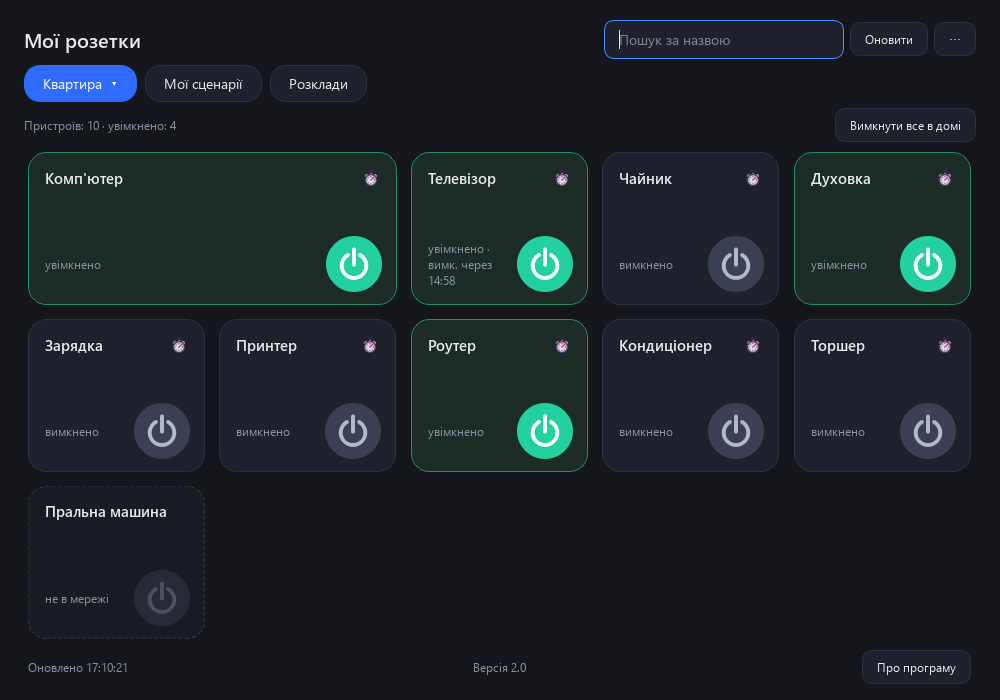
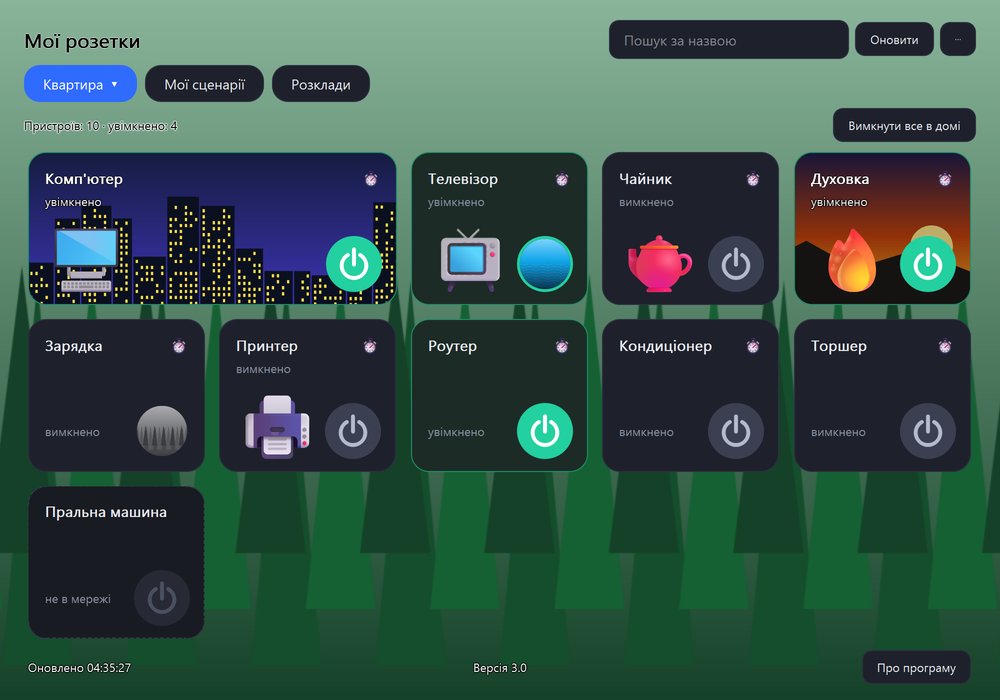
Сайт: Smart Life для Windows 3.0

diff --git a/docs/smart-life.html b/docs/smart-life.html
@@ -99,6 +99,7 @@ button#copy{background:var(--accent);color:var(--accent-ink);border:0;border-rad
     <h2 data-i="s_h"></h2>
     <div class="shots">
       <figure><img id="img_main" src="sl_main_en.png" alt="" width="1000" height="700"></figure>
+      <figure><img id="img_icons" src="sl_icons_en.png" alt="" width="1000" height="700"></figure>
       <figure><img id="img_device" src="sl_device_en.png" alt="" width="440" height="640"></figure>
       <figure><img id="img_scenes" src="sl_scenes_en.png" alt="" width="1000" height="700"></figure>
       <figure><img id="img_sched" src="sl_sched_en.png" alt="" width="1000" height="700"></figure>
@@ -129,7 +130,7 @@ button#copy{background:var(--accent);color:var(--accent-ink);border:0;border-rad
   </div>
 </footer>
 <script>
-var I18N = {"en": {"name": "Smart Life for Windows", "title": "Smart Life for Windows: control Smart Life (Tuya) sockets from a Windows window (free)", "h1": "Your Smart Life sockets in a Windows window", "lead": "Turn sockets on and off from your PC: sign in with a QR code (no password), tiles with a power button, several homes, timers, your own scenes and schedules. Free.", "dl": "Download for Windows", "gh": "View on GitHub", "back": "All programs", "dlnote": "Current version: 2.0. SmartLifeForWindows-2.0.exe. Free. Windows 10 and 11. Interface in English, Ukrainian and Russian.", "f_h": "What it does", "s_h": "How it looks", "st_h": "Getting started", "lm_h": "Limitations", "d_h": "Support the project", "d_p": "The program is free. If it is useful to you, you can support its development by card, Google Pay or USDT: the same donation page as for the other program on this site.", "d_btn": "Donation options", "c1": "Smart Life (Tuya) sockets from a window of your PC. The program is independent and not an official Tuya or Smart Life product.", "feats": [["QR sign-in", "No password: scan a QR code with the Smart Life app. The code is remembered."], ["Tiles with a power button", "Like in the phone app; wide tiles, drag to reorder, several homes, a separate window for each home."], ["Device window", "Click a tile: electricity (power, voltage, current, energy), socket timer, child lock, indicator light."], ["Timers", "Turn off in 15 minutes, 1 hour and so on, with a countdown on the tile."], ["Own scenes and schedules", "Several sockets in one click, or at a set time on chosen days."], ["Smart Life scenes", "Tap-to-run scenes from your phone app are shown and can be started."], ["Theme and language", "Auto (like Windows), light or dark theme; English, Ukrainian and Russian, by your Windows language or chosen by hand."], ["Important sockets", "Turning off a PC or router asks for confirmation."], ["Tray icon by the clock", "Favourite sockets, all sockets, “Turn everything off” and your scenes right from the tray menu; the program can start with Windows and stay in the tray."], ["Multi-channel sockets", "A socket or power strip with several channels (230 V and USB, sockets 1, 2, 3) shows a button per channel on the tile and in the device window."], ["Device codes and energy", "A table that assigns power, voltage, current and energy for any device; consumption for a day, 7 and 30 days, cost and power protection."], ["Shortcuts and notifications", "Desktop shortcuts for sockets and scenes with a result message; Windows notifications."], ["Server agent", "Schedules, scenes and power protection keep working while the computer is off: on any server or mini computer."]], "steps": ["Download SmartLifeForWindows-2.0.exe and run it. The installer speaks your Windows language.", "On first start enter your user code (in the phone app: Me, gear icon, Account and Security, User code).", "Scan the QR code shown by the program: in Smart Life tap the scanner icon in the top corner.", "Choose your home with the button at the top and click the round button on a tile."], "lims": ["Own schedules and scenes work only while the program is running and the PC is awake. For round-the-clock work use the server agent (the Server folder) or automations inside Smart Life.", "Smart Life automations (by schedule or condition) are not given to third-party programs by Tuya: they are not shown here and keep working in the phone app.", "The order of cards in the phone app (for example Favorites) is stored inside that app and is not available: drag tiles to set your order.", "Sign-in by e-mail and password does not work for all accounts: use the QR code."], "smart": "The installer is not signed with a publisher certificate yet, so Windows may show a SmartScreen warning (\"unknown publisher\"): click \"More info\" and then \"Run anyway\" if you downloaded the file from here. The SHA-256 checksum is in the description of the release.", "note": "Smart Life for Windows is an independent project. Not affiliated with Tuya or Smart Life. Tuya and Smart Life are trademarks of their owners.", "f_rel": "All versions", "f_issue": "Report a problem", "f_src": "Source on GitHub", "f_contacts": "Contacts", "f_terms": "Terms and conditions", "f_refund": "Refund policy", "f_oferta": "Public offer", "star_btn": "⭐ Star on GitHub", "star_p": "A free way to help: put a star on the GitHub repository. It costs nothing and helps other people find the program."}, "uk": {"name": "Smart Life для Windows", "title": "Smart Life для Windows: керуйте розетками Smart Life (Tuya) з вікна Windows (безкоштовно)", "h1": "Ваші розетки Smart Life у вікні Windows", "lead": "Вмикайте й вимикайте розетки з комп’ютера: вхід за QR-кодом (без пароля), плитки з кнопкою живлення, кілька домів, таймери, власні сценарії та розклади. Безкоштовно.", "dl": "Завантажити для Windows", "gh": "Дивитися на GitHub", "back": "Усі програми", "dlnote": "Поточна версія: 2.0. SmartLifeForWindows-2.0.exe. Безкоштовно. Windows 10 і 11. Інтерфейс українською, російською та англійською.", "f_h": "Що вміє", "s_h": "Як виглядає", "st_h": "З чого почати", "lm_h": "Обмеження", "d_h": "Підтримати проєкт", "d_p": "Програма безкоштовна. Якщо вона вам корисна, можна підтримати розробку карткою, Google Pay або USDT: це та сама сторінка внесків, що й для іншої програми на цьому сайті.", "d_btn": "Способи підтримки", "c1": "Розетки Smart Life (Tuya) з вікна комп’ютера. Програма незалежна й не є офіційним продуктом Tuya чи Smart Life.", "feats": [["Вхід за QR", "Без пароля: скануйте QR-код застосунком Smart Life. Код запам’ятовується."], ["Плитки з кнопкою живлення", "Як у застосунку на телефоні; широкі плитки, перетягування, кілька домів, окреме вікно для кожного дому."], ["Вікно пристрою", "Клік по плитці: електрика (потужність, напруга, струм, енергія), таймер розетки, захист від дітей, підсвітка індикатора."], ["Таймери", "Вимкнути через 15 хвилин, 1 годину тощо, зі зворотним відліком на плитці."], ["Власні сценарії та розклади", "Кілька розеток одним кліком або в заданий час у вибрані дні."], ["Сценарії Smart Life", "Сценарії «натиснув і виконалося» з телефона видно й можна запускати."], ["Тема й мова", "Тема авто (як у Windows), світла або темна; українська, російська й англійська — за мовою Windows або вручну."], ["Важливі розетки", "Вимкнення ПК чи роутера запитує підтвердження."], ["Значок біля годинника (трей)", "Обрані розетки, усі розетки, «Вимкнути все» і власні сценарії прямо з меню біля годинника; програма може запускатися разом з Windows і жити в треї."], ["Складені розетки", "Розетка або подовжувач із кількома каналами (230 В і USB, розетки 1, 2, 3) мають кнопку на кожен канал на плитці та у вікні пристрою."], ["Коди пристрою та енергія", "Таблиця призначення потужності, напруги, струму й енергії для будь-яких пристроїв; витрата за день, 7 і 30 днів, вартість і захист за потужністю."], ["Ярлики та сповіщення", "Ярлики на робочий стіл для розеток і сценаріїв із повідомленням про результат; сповіщення Windows."], ["Серверний агент", "Розклади, сценарії та захист за потужністю працюють при вимкненому комп’ютері: на будь-якому сервері чи міні-комп’ютері."]], "steps": ["Завантажте SmartLifeForWindows-2.0.exe й запустіть. Встановлювач говорить мовою Windows.", "Під час першого запуску введіть код користувача (у застосунку: Я, значок шестірні, Обліковий запис і безпека, Код користувача).", "Скануйте QR-код, який показує програма: у Smart Life натисніть значок сканера у верхньому куті.", "Оберіть дім кнопкою вгорі та натискайте круглу кнопку на плитці."], "lims": ["Власні розклади й сценарії працюють, лише поки програма запущена й комп’ютер не спить. Для цілодобової роботи користуйтеся серверним агентом (тека «Сервер») або автоматизаціями в самому Smart Life.", "Автоматизації Smart Life (за розкладом чи умовою) Tuya не віддає стороннім програмам: тут їх не видно, а в застосунку вони працюють як раніше.", "Порядок карток у застосунку (наприклад «Обране») зберігається всередині нього й недоступний: порядок плиток задається перетягуванням.", "Вхід за поштою й паролем працює не для всіх акаунтів: користуйтеся QR-кодом."], "smart": "Встановлювач ще не підписано сертифікатом видавця, тому Windows може показати попередження SmartScreen («невідомий видавець»): натисніть «Докладніше», потім «Все одно виконати», якщо ви завантажили файл звідси. Контрольну суму SHA-256 вказано в описі релізу.", "note": "Smart Life для Windows: незалежний проєкт. Не пов’язаний з Tuya чи Smart Life. Tuya і Smart Life є торговельними марками своїх власників.", "f_rel": "Усі версії", "f_issue": "Повідомити про проблему", "f_src": "Код на GitHub", "f_contacts": "Контакти", "f_terms": "Правила та умови", "f_refund": "Правила повернення коштів", "f_oferta": "Публічний договір", "star_btn": "⭐ Зірка на GitHub", "star_p": "Безкоштовний спосіб допомогти: поставте зірку репозиторію на GitHub. Це нічого не коштує й допомагає іншим знайти програму."}, "ru": {"name": "Smart Life для Windows", "title": "Smart Life для Windows: управляйте розетками Smart Life (Tuya) из окна Windows (бесплатно)", "h1": "Ваши розетки Smart Life в окне Windows", "lead": "Включайте и выключайте розетки с компьютера: вход по QR-коду (без пароля), плитки с кнопкой питания, несколько домов, таймеры, свои сценарии и расписания. Бесплатно.", "dl": "Скачать для Windows", "gh": "Смотреть на GitHub", "back": "Все программы", "dlnote": "Текущая версия: 2.0. SmartLifeForWindows-2.0.exe. Бесплатно. Windows 10 и 11. Интерфейс на русском, украинском и английском.", "f_h": "Что умеет", "s_h": "Как выглядит", "st_h": "С чего начать", "lm_h": "Ограничения", "d_h": "Поддержать проект", "d_p": "Программа бесплатная. Если она вам полезна, можно поддержать разработку картой, Google Pay или USDT: это та же страница взносов, что и для другой программы на этом сайте.", "d_btn": "Способы поддержки", "c1": "Розетки Smart Life (Tuya) из окна компьютера. Программа независимая и не является официальным продуктом Tuya или Smart Life.", "feats": [["Вход по QR", "Без пароля: отсканируйте QR-код приложением Smart Life. Код запоминается."], ["Плитки с кнопкой питания", "Как в приложении на телефоне; широкие плитки, перетаскивание, несколько домов, отдельное окно для каждого дома."], ["Окно устройства", "Клик по плитке: электричество (мощность, напряжение, ток, энергия), таймер розетки, защита от детей, подсветка индикатора."], ["Таймеры", "Выключить через 15 минут, 1 час и так далее, с обратным отсчётом на плитке."], ["Свои сценарии и расписания", "Несколько розеток одним кликом или в заданное время в выбранные дни."], ["Сценарии Smart Life", "Сценарии «нажал и выполнилось» из телефона видны и запускаются."], ["Тема и язык", "Тема авто (как в Windows), светлая или тёмная; русский, украинский и английский — по языку Windows или вручную."], ["Важные розетки", "Выключение ПК или роутера спрашивает подтверждение."], ["Значок у часов (трей)", "Избранные розетки, все розетки, «Выключить всё» и свои сценарии прямо из меню у часов; программа может запускаться вместе с Windows и жить в трее."], ["Составные розетки", "Розетка или удлинитель с несколькими каналами (230 В и USB, розетки 1, 2, 3): кнопка на каждый канал на плитке и в окне устройства."], ["Коды устройства и энергия", "Таблица назначения мощности, напряжения, тока и энергии для любых устройств; расход за день, 7 и 30 дней, стоимость и защита по мощности."], ["Ярлыки и уведомления", "Ярлыки на рабочий стол для розеток и сценариев с сообщением о результате; уведомления Windows."], ["Серверный агент", "Расписания, сценарии и защита по мощности работают при выключенном компьютере: на любом сервере или мини-компьютере."]], "steps": ["Скачайте SmartLifeForWindows-2.0.exe и запустите. Установщик говорит на языке Windows.", "При первом запуске введите код пользователя (в приложении: Я, значок шестерёнки, Учётная запись и безопасность, Код пользователя).", "Отсканируйте QR-код, который показывает программа: в Smart Life нажмите значок сканера в верхнем углу.", "Выберите дом кнопкой вверху и нажимайте круглую кнопку на плитке."], "lims": ["Свои расписания и сценарии работают, только пока программа запущена и компьютер не спит. Для круглосуточной работы используйте серверный агент (папка «Сервер») или автоматизации в самом Smart Life.", "Автоматизации Smart Life (по расписанию или условию) Tuya не отдаёт сторонним программам: здесь их не видно, а в приложении они работают как раньше.", "Порядок карточек в приложении (например «Избранное») хранится внутри него и недоступен: порядок плиток задаётся перетаскиванием.", "Вход по почте и паролю работает не для всех аккаунтов: используйте QR-код."], "smart": "Установщик пока не подписан сертификатом издателя, поэтому Windows может показать предупреждение SmartScreen («неизвестный издатель»): нажмите «Подробнее», затем «Выполнить в любом случае», если вы скачали файл отсюда. Контрольная сумма SHA-256 указана в описании релиза.", "note": "Smart Life для Windows: независимый проект. Не связан с Tuya или Smart Life. Tuya и Smart Life являются торговыми марками своих владельцев.", "f_rel": "Все версии", "f_issue": "Сообщить о проблеме", "f_src": "Код на GitHub", "f_contacts": "Контакты", "f_terms": "Правила и условия", "f_refund": "Правила возврата средств", "f_oferta": "Публичный договор", "star_btn": "⭐ Звезда на GitHub", "star_p": "Бесплатный способ помочь: поставьте звезду репозиторию на GitHub. Это ничего не стоит и помогает другим найти программу."}};
+var I18N = {"en": {"name": "Smart Life for Windows", "title": "Smart Life for Windows: control Smart Life (Tuya) sockets from a Windows window (free)", "h1": "Your Smart Life sockets in a Windows window", "lead": "Turn sockets on and off from your PC: sign in with a QR code (no password), tiles with a power button, several homes, timers, your own scenes and schedules. Free.", "dl": "Download for Windows", "gh": "View on GitHub", "back": "All programs", "dlnote": "Current version: 3.0. SmartLifeForWindows-3.0.exe. Free. Windows 10 and 11. Interface in English, Ukrainian and Russian.", "f_h": "What it does", "s_h": "How it looks", "st_h": "Getting started", "lm_h": "Limitations", "d_h": "Support the project", "d_p": "The program is free. If it is useful to you, you can support its development by card, Google Pay or USDT: the same donation page as for the other program on this site.", "d_btn": "Donation options", "c1": "Smart Life (Tuya) sockets from a window of your PC. The program is independent and not an official Tuya or Smart Life product.", "feats": [["QR sign-in", "No password: scan a QR code with the Smart Life app. The code is remembered."], ["Tiles with a power button", "Like in the phone app; wide tiles, drag to reorder, several homes, a separate window for each home."], ["Device window", "Click a tile: electricity (power, voltage, current, energy), socket timer, child lock, indicator light."], ["Timers", "Turn off in 15 minutes, 1 hour and so on, with a countdown on the tile."], ["Own scenes and schedules", "Several sockets in one click, or at a set time on chosen days."], ["Smart Life scenes", "Tap-to-run scenes from your phone app are shown and can be started."], ["Your own icons and backgrounds", "Any picture, emoji, GIF or video instead of the device icon: on the button, on the tile, in the device window or behind all windows. Dimming and blur adapt, the text always stays readable."], ["Video and animation in icons", "A video clip of up to 30 seconds becomes an animated icon or background. An honest progress bar shows how the work goes."], ["Two tariffs and energy to the grid", "Day and night tariff in the cost calculation; energy from the grid and to the grid is counted separately. The error log sits next to the program data."], ["Theme and language", "Auto (like Windows), light or dark theme; English, Ukrainian and Russian, by your Windows language or chosen by hand."], ["Important sockets", "Turning off a PC or router asks for confirmation."], ["Tray icon by the clock", "Favourite sockets, all sockets, “Turn everything off” and your scenes right from the tray menu; the program can start with Windows and stay in the tray."], ["Multi-channel sockets", "A socket or power strip with several channels (230 V and USB, sockets 1, 2, 3) shows a button per channel on the tile and in the device window."], ["Device codes and energy", "A table that assigns power, voltage, current and energy for any device; consumption for a day, 7 and 30 days, cost and power protection."], ["Shortcuts and notifications", "Desktop shortcuts for sockets and scenes with a result message; Windows notifications."], ["Server agent", "Schedules, scenes and power protection keep working while the computer is off: on any server or mini computer."]], "steps": ["Download SmartLifeForWindows-3.0.exe and run it. The installer speaks your Windows language.", "On first start enter your user code (in the phone app: Me, gear icon, Account and Security, User code).", "Scan the QR code shown by the program: in Smart Life tap the scanner icon in the top corner.", "Choose your home with the button at the top and click the round button on a tile."], "lims": ["Own schedules and scenes work only while the program is running and the PC is awake. For round-the-clock work use the server agent (the Server folder) or automations inside Smart Life.", "Smart Life automations (by schedule or condition) are not given to third-party programs by Tuya: they are not shown here and keep working in the phone app.", "The order of cards in the phone app (for example Favorites) is stored inside that app and is not available: drag tiles to set your order.", "Sign-in by e-mail and password does not work for all accounts: use the QR code."], "smart": "The installer is not signed with a publisher certificate yet, so Windows may show a SmartScreen warning (\"unknown publisher\"): click \"More info\" and then \"Run anyway\" if you downloaded the file from here. The SHA-256 checksum is in the description of the release.", "note": "Smart Life for Windows is an independent project. Not affiliated with Tuya or Smart Life. Tuya and Smart Life are trademarks of their owners.", "f_rel": "All versions", "f_issue": "Report a problem", "f_src": "Source on GitHub", "f_contacts": "Contacts", "f_terms": "Terms and conditions", "f_refund": "Refund policy", "f_oferta": "Public offer", "star_btn": "⭐ Star on GitHub", "star_p": "A free way to help: put a star on the GitHub repository. It costs nothing and helps other people find the program."}, "uk": {"name": "Smart Life для Windows", "title": "Smart Life для Windows: керуйте розетками Smart Life (Tuya) з вікна Windows (безкоштовно)", "h1": "Ваші розетки Smart Life у вікні Windows", "lead": "Вмикайте й вимикайте розетки з комп’ютера: вхід за QR-кодом (без пароля), плитки з кнопкою живлення, кілька домів, таймери, власні сценарії та розклади. Безкоштовно.", "dl": "Завантажити для Windows", "gh": "Дивитися на GitHub", "back": "Усі програми", "dlnote": "Поточна версія: 3.0. SmartLifeForWindows-3.0.exe. Безкоштовно. Windows 10 і 11. Інтерфейс українською, російською та англійською.", "f_h": "Що вміє", "s_h": "Як виглядає", "st_h": "З чого почати", "lm_h": "Обмеження", "d_h": "Підтримати проєкт", "d_p": "Програма безкоштовна. Якщо вона вам корисна, можна підтримати розробку карткою, Google Pay або USDT: це та сама сторінка внесків, що й для іншої програми на цьому сайті.", "d_btn": "Способи підтримки", "c1": "Розетки Smart Life (Tuya) з вікна комп’ютера. Програма незалежна й не є офіційним продуктом Tuya чи Smart Life.", "feats": [["Вхід за QR", "Без пароля: скануйте QR-код застосунком Smart Life. Код запам’ятовується."], ["Плитки з кнопкою живлення", "Як у застосунку на телефоні; широкі плитки, перетягування, кілька домів, окреме вікно для кожного дому."], ["Вікно пристрою", "Клік по плитці: електрика (потужність, напруга, струм, енергія), таймер розетки, захист від дітей, підсвітка індикатора."], ["Таймери", "Вимкнути через 15 хвилин, 1 годину тощо, зі зворотним відліком на плитці."], ["Власні сценарії та розклади", "Кілька розеток одним кліком або в заданий час у вибрані дні."], ["Сценарії Smart Life", "Сценарії «натиснув і виконалося» з телефона видно й можна запускати."], ["Власні значки та фони", "Будь-яка картинка, емодзі, GIF або відео замість значка пристрою: на кнопці, на плитці, у вікні пристрою або на тлі всіх вікон. Затемнення й розмиття підлаштовуються, текст завжди читається."], ["Відео й анімація в значках", "Відрізок відео до 30 секунд перетворюється на анімований значок або тло. Хід роботи показує чесна смужка."], ["Два тарифи й енергія «в мережу»", "Денний і нічний тариф у розрахунку вартості; енергія з мережі й у мережу рахується окремо. Журнал помилок лежить поруч з даними програми."], ["Тема й мова", "Тема авто (як у Windows), світла або темна; українська, російська й англійська — за мовою Windows або вручну."], ["Важливі розетки", "Вимкнення ПК чи роутера запитує підтвердження."], ["Значок біля годинника (трей)", "Обрані розетки, усі розетки, «Вимкнути все» і власні сценарії прямо з меню біля годинника; програма може запускатися разом з Windows і жити в треї."], ["Складені розетки", "Розетка або подовжувач із кількома каналами (230 В і USB, розетки 1, 2, 3) мають кнопку на кожен канал на плитці та у вікні пристрою."], ["Коди пристрою та енергія", "Таблиця призначення потужності, напруги, струму й енергії для будь-яких пристроїв; витрата за день, 7 і 30 днів, вартість і захист за потужністю."], ["Ярлики та сповіщення", "Ярлики на робочий стіл для розеток і сценаріїв із повідомленням про результат; сповіщення Windows."], ["Серверний агент", "Розклади, сценарії та захист за потужністю працюють при вимкненому комп’ютері: на будь-якому сервері чи міні-комп’ютері."]], "steps": ["Завантажте SmartLifeForWindows-3.0.exe й запустіть. Встановлювач говорить мовою Windows.", "Під час першого запуску введіть код користувача (у застосунку: Я, значок шестірні, Обліковий запис і безпека, Код користувача).", "Скануйте QR-код, який показує програма: у Smart Life натисніть значок сканера у верхньому куті.", "Оберіть дім кнопкою вгорі та натискайте круглу кнопку на плитці."], "lims": ["Власні розклади й сценарії працюють, лише поки програма запущена й комп’ютер не спить. Для цілодобової роботи користуйтеся серверним агентом (тека «Сервер») або автоматизаціями в самому Smart Life.", "Автоматизації Smart Life (за розкладом чи умовою) Tuya не віддає стороннім програмам: тут їх не видно, а в застосунку вони працюють як раніше.", "Порядок карток у застосунку (наприклад «Обране») зберігається всередині нього й недоступний: порядок плиток задається перетягуванням.", "Вхід за поштою й паролем працює не для всіх акаунтів: користуйтеся QR-кодом."], "smart": "Встановлювач ще не підписано сертифікатом видавця, тому Windows може показати попередження SmartScreen («невідомий видавець»): натисніть «Докладніше», потім «Все одно виконати», якщо ви завантажили файл звідси. Контрольну суму SHA-256 вказано в описі релізу.", "note": "Smart Life для Windows: незалежний проєкт. Не пов’язаний з Tuya чи Smart Life. Tuya і Smart Life є торговельними марками своїх власників.", "f_rel": "Усі версії", "f_issue": "Повідомити про проблему", "f_src": "Код на GitHub", "f_contacts": "Контакти", "f_terms": "Правила та умови", "f_refund": "Правила повернення коштів", "f_oferta": "Публічний договір", "star_btn": "⭐ Зірка на GitHub", "star_p": "Безкоштовний спосіб допомогти: поставте зірку репозиторію на GitHub. Це нічого не коштує й допомагає іншим знайти програму."}, "ru": {"name": "Smart Life для Windows", "title": "Smart Life для Windows: управляйте розетками Smart Life (Tuya) из окна Windows (бесплатно)", "h1": "Ваши розетки Smart Life в окне Windows", "lead": "Включайте и выключайте розетки с компьютера: вход по QR-коду (без пароля), плитки с кнопкой питания, несколько домов, таймеры, свои сценарии и расписания. Бесплатно.", "dl": "Скачать для Windows", "gh": "Смотреть на GitHub", "back": "Все программы", "dlnote": "Текущая версия: 3.0. SmartLifeForWindows-3.0.exe. Бесплатно. Windows 10 и 11. Интерфейс на русском, украинском и английском.", "f_h": "Что умеет", "s_h": "Как выглядит", "st_h": "С чего начать", "lm_h": "Ограничения", "d_h": "Поддержать проект", "d_p": "Программа бесплатная. Если она вам полезна, можно поддержать разработку картой, Google Pay или USDT: это та же страница взносов, что и для другой программы на этом сайте.", "d_btn": "Способы поддержки", "c1": "Розетки Smart Life (Tuya) из окна компьютера. Программа независимая и не является официальным продуктом Tuya или Smart Life.", "feats": [["Вход по QR", "Без пароля: отсканируйте QR-код приложением Smart Life. Код запоминается."], ["Плитки с кнопкой питания", "Как в приложении на телефоне; широкие плитки, перетаскивание, несколько домов, отдельное окно для каждого дома."], ["Окно устройства", "Клик по плитке: электричество (мощность, напряжение, ток, энергия), таймер розетки, защита от детей, подсветка индикатора."], ["Таймеры", "Выключить через 15 минут, 1 час и так далее, с обратным отсчётом на плитке."], ["Свои сценарии и расписания", "Несколько розеток одним кликом или в заданное время в выбранные дни."], ["Сценарии Smart Life", "Сценарии «нажал и выполнилось» из телефона видны и запускаются."], ["Свои значки и фоны", "Любая картинка, эмодзи, GIF или видео вместо значка устройства: на кнопке, на плитке, в окне устройства или на фоне всех окон. Затемнение и размытие подстраиваются, текст всегда читается."], ["Видео и анимация в значках", "Отрезок видео до 30 секунд превращается в анимированный значок или фон. Ход работы показывает честная полоска."], ["Два тарифа и энергия «в сеть»", "Дневной и ночной тариф в расчёте стоимости; энергия из сети и в сеть считается отдельно. Журнал ошибок лежит рядом с данными программы."], ["Тема и язык", "Тема авто (как в Windows), светлая или тёмная; русский, украинский и английский — по языку Windows или вручную."], ["Важные розетки", "Выключение ПК или роутера спрашивает подтверждение."], ["Значок у часов (трей)", "Избранные розетки, все розетки, «Выключить всё» и свои сценарии прямо из меню у часов; программа может запускаться вместе с Windows и жить в трее."], ["Составные розетки", "Розетка или удлинитель с несколькими каналами (230 В и USB, розетки 1, 2, 3): кнопка на каждый канал на плитке и в окне устройства."], ["Коды устройства и энергия", "Таблица назначения мощности, напряжения, тока и энергии для любых устройств; расход за день, 7 и 30 дней, стоимость и защита по мощности."], ["Ярлыки и уведомления", "Ярлыки на рабочий стол для розеток и сценариев с сообщением о результате; уведомления Windows."], ["Серверный агент", "Расписания, сценарии и защита по мощности работают при выключенном компьютере: на любом сервере или мини-компьютере."]], "steps": ["Скачайте SmartLifeForWindows-3.0.exe и запустите. Установщик говорит на языке Windows.", "При первом запуске введите код пользователя (в приложении: Я, значок шестерёнки, Учётная запись и безопасность, Код пользователя).", "Отсканируйте QR-код, который показывает программа: в Smart Life нажмите значок сканера в верхнем углу.", "Выберите дом кнопкой вверху и нажимайте круглую кнопку на плитке."], "lims": ["Свои расписания и сценарии работают, только пока программа запущена и компьютер не спит. Для круглосуточной работы используйте серверный агент (папка «Сервер») или автоматизации в самом Smart Life.", "Автоматизации Smart Life (по расписанию или условию) Tuya не отдаёт сторонним программам: здесь их не видно, а в приложении они работают как раньше.", "Порядок карточек в приложении (например «Избранное») хранится внутри него и недоступен: порядок плиток задаётся перетаскиванием.", "Вход по почте и паролю работает не для всех аккаунтов: используйте QR-код."], "smart": "Установщик пока не подписан сертификатом издателя, поэтому Windows может показать предупреждение SmartScreen («неизвестный издатель»): нажмите «Подробнее», затем «Выполнить в любом случае», если вы скачали файл отсюда. Контрольная сумма SHA-256 указана в описании релиза.", "note": "Smart Life для Windows: независимый проект. Не связан с Tuya или Smart Life. Tuya и Smart Life являются торговыми марками своих владельцев.", "f_rel": "Все версии", "f_issue": "Сообщить о проблеме", "f_src": "Код на GitHub", "f_contacts": "Контакты", "f_terms": "Правила и условия", "f_refund": "Правила возврата средств", "f_oferta": "Публичный договор", "star_btn": "⭐ Звезда на GitHub", "star_p": "Бесплатный способ помочь: поставьте звезду репозиторию на GitHub. Это ничего не стоит и помогает другим найти программу."}};
 function esc(s){return String(s).replace(/&/g,"&amp;").replace(/</g,"&lt;")}
 function setLang(l){
   var d = I18N[l] || I18N.en;
@@ -140,7 +141,7 @@ function setLang(l){
   document.getElementById("features").innerHTML = d.feats.map(function(f){return '<div class="card"><b>'+esc(f[0])+'</b>'+esc(f[1])+'</div>'}).join("");
   document.getElementById("steps").innerHTML = d.steps.map(function(s){return '<li>'+esc(s)+'</li>'}).join("");
   document.getElementById("lims").innerHTML = d.lims.map(function(s){return '<li>'+esc(s)+'</li>'}).join("");
-  ["main","device","scenes","sched"].forEach(function(k){ document.getElementById("img_"+k).src = "sl_"+k+"_"+l+".png"; });
+  ["main","icons","device","scenes","sched"].forEach(function(k){ document.getElementById("img_"+k).src = "sl_"+k+"_"+l+".png"; });
   var b = document.querySelectorAll(".langs button");
   for (var j = 0; j < b.length; j++) b[j].setAttribute("aria-pressed", b[j].getAttribute("data-lang") === l ? "true" : "false");
   try { localStorage.setItem("piws-lang", l); } catch (e) {}
